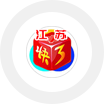
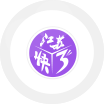
415

Changed region(s): [[0.2596, 0.2596, 0.75, 0.75]]

diff --git a/Application/Fuzhi/View/Common/index.html b/Application/Fuzhi/View/Common/index.html
@@ -635,7 +635,7 @@
                                     <div id="pk10_hot">
                                         <div class="rowbox1">
                                             <div class="imgheadl">
-                                                <a href="/pk10/"><img src="picture/beijinpk.png" alt="北京PK10"/></a>
+                                                <a href="/pk10/"><img src="picture/beijinpk.png?v=20181111" alt="北京PK10"/></a>
                                             </div>
                                             <div class="num_ul" id="">
                                                 <h1>北京PK10 <span class="preDrawIssue"> 179</span> 期</h1>
@@ -707,7 +707,7 @@
                                     <div id="cqSsc_hot" style="margin-top: 26px;">
                                         <div class="rowbox1">
                                             <div class="imgheadl">
-                                                <a href="/cqssc/"><img src="/picture/chognqingssc.png" alt="重庆时时彩"/></a>
+                                                <a href="/cqssc/"><img src="/picture/chognqingssc.png?v=20181111" alt="重庆时时彩"/></a>
                                             </div>
                                             <div class="num_ul">
                                                 <h1>重庆时时彩 <span class="preDrawIssue"> 120</span> 期</h1>
@@ -786,7 +786,7 @@
                                     <div id="pk10">
                                         <div class="rowbox1">
                                             <div class="imgheadl">
-                                                <a href="/pk10+"><img src="/picture/beijinpk.png" alt="北京PK10"/></a>
+                                                <a href="/pk10+"><img src="/picture/beijinpk.png?v=20181111" alt="北京PK10"/></a>
                                             </div>
                                             <div class="num_ul">
                                                 <h1>北京PK10 <span class="preDrawIssue"> 179</span> 期</h1>
@@ -936,7 +936,7 @@
                                     <div id="xyft">
                                         <div class="rowbox1">
                                             <div class="imgheadl">
-                                                <a href="xyft"><img src="picture/jisuft.png" alt="极速飞艇"/></a>
+                                                <a href="xyft"><img src="picture/jisuft.png?v=20181111" alt="极速飞艇"/></a>
                                             </div>
                                             <div class="num_ul">
                                                 <h1>幸运飞艇 <span class="preDrawIssue"> 179</span> 期</h1>
@@ -1011,7 +1011,7 @@
                                     <div id="cqSsc">
                                         <div class="rowbox1">
                                             <div class="imgheadl">
-                                                <a href="/cqssc/"><img src="picture/chognqingssc.png" alt="重庆时时彩"/></a>
+                                                <a href="/cqssc/"><img src="picture/chognqingssc.png?v=20181111" alt="重庆时时彩"/></a>
                                             </div>
                                             <div class="num_ul">
                                                 <h1>重庆时时彩 <span class="preDrawIssue"> 120</span> 期</h1>
@@ -1087,7 +1087,7 @@
                                     <div id="txffc">
                                     <div class="rowbox1">
                                     <div class="imgheadl">
-                                    <a href="/txffc/"><img src="/images/txffc.png" alt="腾讯分分彩" /></a>
+                                    <a href="/txffc/"><img src="/images/txffc.png?v=20181111" alt="腾讯分分彩" /></a>
                                     </div>
                                     <div class="num_ul">
                                     <h1>腾讯分分彩 <span class="preDrawIssue"> 1440</span> 期</h1>
@@ -1239,7 +1239,7 @@
                                     <div id="gd11x5">
                                         <div class="rowbox1">
                                             <div class="imgheadl">
-                                                <a href="/gd11x5/"><img src="picture/gaungdong11x5.png"
+                                                <a href="/gd11x5/"><img src="picture/gaungdong11x5.png?v=20181111"
                                                                        alt="广东11选5"/></a>
                                             </div>
                                             <div class="num_ul">
@@ -1386,7 +1386,7 @@
                                     <div id="kuai3">
                                         <div class="rowbox1">
                                             <div class="imgheadl">
-                                                <a href="/jsk3/"><img src="picture/jsk3.png" alt="江苏快3"/></a>
+                                                <a href="/jsk3/"><img src="picture/jsk3.png?v=20181111" alt="江苏快3"/></a>
                                             </div>
                                             <div class="num_ul">
                                                 <h1>江苏快3 <span class="preDrawIssue"> 82</span> 期</h1>
@@ -1454,7 +1454,7 @@
                                 <div id="bjft">
                                     <div class="rowbox1">
                                         <div class="imgheadl">
-                                                <a href="/bjft/"><img src="picture/beijinpk10.png" alt="江苏快3"/></a>
+                                                <a href="/bjft/"><img src="picture/beijinpk10.png?v=20181111" alt="江苏快3"/></a>
                                             </div>
                                             <div class="num_ul">
                                                 <h1>北京番摊 <span class="preDrawIssue"> 179</span> 期</h1>
@@ -1531,7 +1531,7 @@
                                 <div id="cqft">
                                     <div class="rowbox1">
                                         <div class="imgheadl">
-                                            <a href="/cqft/"><img src="picture/chongqingssc.png" alt="江苏快3"/></a>
+                                            <a href="/cqft/"><img src="picture/chongqingsscft.png?v=20181111" alt=""/></a>
                                         </div>
                                         <div class="num_ul">
                                             <h1>重庆番摊 <span class="preDrawIssue"> 120</span> 期</h1>
@@ -1594,7 +1594,7 @@
                                 <div id="pc28">
                                     <div class="rowbox1">
                                         <div class="imgheadl">
-                                            <a href="/pc28/"><img src="/images/pc28.png" alt="江苏快3"/></a>
+                                            <a href="/pc28/"><img src="/images/pc28.png?v=20181111" alt="江苏快3"/></a>
                                         </div>
                                         <div class="num_ul">
                                             <h1>加拿大28 <span class="preDrawIssue"> </span> </h1>
@@ -1739,16 +1739,16 @@
                                         <!--</li>-->
                                         <li class="pcddxl">
                                             <a  href="javascript:void (0)"><img
-                                                    src="/images/pl3-logo.png" width="52" height="52"/></a>
-                                            <a  href="javascript:void (0)">排列3</a>
+                                                    src="/images/pk10ft.png?v=20181111" width="52" height="52"/></a>
+                                            <a  href="javascript:void (0)">北京番摊</a>
                                         </li>
                                         <li>
-                                            <a  href="/gd11x5/"><img src="/images/gd11x5-logo.png"
+                                            <a  href="/gd11x5/"><img src="/images/gd11x5-logo.png?v=20181111"
                                                                                    width="52" height="52"/></a>
                                             <a  href="/gd11x5/">广东11选5</a>
                                         </li>
                                         <li>
-                                            <a  href="jsk3"><img src="/images/jsk3-logo.png" width="52"
+                                            <a  href="jsk3"><img src="/images/jsk3-logo.png?v=20181111" width="52"
                                                                                 height="52"/></a>
                                             <a  href="jsk3">江苏快三</a>
                                         </li>
@@ -1760,7 +1760,7 @@
                                         <!--</li>-->
 
                                         <li>
-                                            <a  href="/xyft/"><img src="/images/xyft-logo.png" width="52"
+                                            <a  href="/xyft/"><img src="/images/xyft-logo.png?v=20181111" width="52"
                                                                                  height="52"/></a>
                                             <a  href="/xyft/">幸运飞艇</a>
                                         </li>
@@ -1772,23 +1772,23 @@
                                         <!--</li>-->
 
                                         <li>
-                                            <a  href="/cqssc/"><img src="picture/cqssc.png" alt="重庆时时彩"/></a>
+                                            <a  href="/cqssc/"><img src="picture/cqssc.png?v=20181111" alt="重庆时时彩"/></a>
                                             <a  href="/cqssc/">重庆时时彩</a>
                                         </li>
                                         <li >
                                             <a  href="/tcssc/"><img
-                                                    src="/images/tcpk10-logo.png?t=2018" width="52" height="52"></a>
+                                                    src="/images/jsssc-logo.png?v=20181111" width="52" height="52"></a>
                                             <a  href="/tcssc/">极速时时彩</a>
                                         </li>
                                         <li >
-                                            <a  href="/tcpk10/"><img src="/images/tcssc-logo.png?t=2018" alt="极速pk10" width="52" height="52"/></a>
+                                            <a  href="/tcpk10/"><img src="/images/jspk10.png?v=20181111" alt="极速pk10" width="52" height="52"/></a>
                                             <a  href="/tcpk10/">极速pk10</a>
                                         </li>
 
                                         <li class="last_li pcddxl">
                                             <a  href="javascript:void (0)"><img
-                                                    src="/images/kl8-logo.png" width="52" height="52"></a>
-                                            <a  href="javascript:void (0)">快乐8</a>
+                                                    src="/images/txffc-logo.png?v=20181111" width="52" height="52"></a>
+                                            <a  href="javascript:void (0)">腾讯分分彩</a>
                                         </li>
 
                                     </ul>
@@ -2395,7 +2395,7 @@
                                         <input type="hidden" id="ofNoLoad" value="noLoad"/>
                                         <input type="hidden" id="ifindex" value="index"/>
                                         <div class="imgheadl">
-                                            <a href="/pk10/"><img src="picture/beijinpk.png" alt="北京PK10"/></a>
+                                            <a href="/pk10/"><img src="picture/beijinpk.png?v=20181111" alt="北京PK10"/></a>
                                         </div>
                                         <div class="inforr">
                                             <h1>北京PK10第<span style="display: inline-block;" class="preDrawIssue"></span>期开奖
@@ -2472,7 +2472,7 @@
                                 <div class="cztypelt">
                                     <div class="rowbox1">
                                         <div class="imgheadl">
-                                            <a href="cqssc"><img src="picture/chognqingssc.png" alt="重庆时时彩"/></a>
+                                            <a href="cqssc"><img src="picture/chognqingssc.png?v=20181111" alt="重庆时时彩"/></a>
                                         </div>
                                         <div class="inforr">
                                             <span class="nextIssue displaynone"></span>
@@ -2619,7 +2619,7 @@
                                 <div class="cztypelt">
                                     <div class="rowbox1">
                                         <div class="imgheadl">
-                                            <a href="/gd11x5/"><img src="picture/gaungdong11x5.png" alt="广东11选5"/></a>
+                                            <a href="/gd11x5/"><img src="picture/gaungdong11x5.png?v=20181111" alt="广东11选5"/></a>
                                         </div>
                                         <div class="inforr">
                                             <span class="nextIssue displaynone"></span>

diff --git a/m/style/css/style.css b/m/style/css/style.css
@@ -118,7 +118,7 @@ body{font-size:15px;line-height:1.5;-webkit-text-size-adjust:none;font-family:"M
 /*北京pk10*/
 .ui-logo-pk10 {background:url("../images/pk10-logo.png");}
 /*北京pk10*/
-.ui-logo-xyft {background:url("../images/xyft-logo.png");}
+.ui-logo-xyft {background:url("../images/xyft-logo.png?v=20181111");}
 /*重庆时时彩*/
 .ui-logo-cqssc {background:url("../images/cqssc-logo.png");}
 /*广东快乐十分*/
@@ -130,9 +130,9 @@ body{font-size:15px;line-height:1.5;-webkit-text-size-adjust:none;font-family:"M
 /*天津时时彩*/
 .ui-logo-tjssc {background:url("../images/tjssc-logo.png");}
 /*广东11选5*/
-.ui-logo-gd11x5 {background:url("../images/gd11x5-logo.png");}
+.ui-logo-gd11x5 {background:url("../images/gd11x5-logo.png?v=20181111");}
 /*江苏快三*/
-.ui-logo-jsk3 {background:url("../images/jsk3-logo.png");}
+.ui-logo-jsk3 {background:url("../images/jsk3-logo.png?v=20181111");}
 
 .ui-logo-pc28 {background:url("../images/pc28-logo.png");}
 

diff --git a/js/lot/sfssc/award.js b/js/lot/sfssc/award.js
@@ -88,6 +88,12 @@ $(function () {
     var cpNextAwardTimeInterval = -1;
     function loadAwardTimes() {
         $.get('sfssc/getCqsscAwardTimes.do', { t: Math.random() }, function (data) {
+            var nums = data.current.awardNumbers.split(',');
+            var str = "";
+            for (var i = 0; i < nums.length; i++) {
+                str = str + "<span class='no" + nums[i] + "'>" + nums[i] + "</span>";
+            }
+            $(".lot-nums").html(str);
             //请求到数据后需要做的事情
             cpCurrAwardData = data;
 
@@ -137,6 +143,7 @@ $(function () {
 
 function updateHistoryRecord() {
     $.get('sfssc/getNewestRecord.do', { t: Math.random() }, function (data) {
+        $(".warnTime #period").html("第" + (parseInt(data.current.periodNumber1)+1).toString().substr(6) + "期");
         var numbers = data.numbers.split(',');
         var tr1 = $("#history tr").eq(1);
         var clsName = "odd";

diff --git a/style/m/style/css/style.css b/style/m/style/css/style.css
@@ -77,7 +77,7 @@ body{font-size:15px;line-height:1.5;-webkit-text-size-adjust:none;font-family:"M
 /*北京pk10*/
 .ui-logo-pk10 {background:url("../images/pk10-logo.png");}
 /*北京pk10*/
-.ui-logo-xyft {background:url("../images/xyft-logo.png");}
+.ui-logo-xyft {background:url("../images/xyft-logo.png?v=20181111");}
 /*重庆时时彩*/
 .ui-logo-cqssc {background:url("../images/cqssc-logo.png");}
 /*广东快乐十分*/
@@ -89,9 +89,9 @@ body{font-size:15px;line-height:1.5;-webkit-text-size-adjust:none;font-family:"M
 /*天津时时彩*/
 .ui-logo-tjssc {background:url("../images/tjssc-logo.png");}
 /*广东11选5*/
-.ui-logo-gd11x5 {background:url("../images/gd11x5-logo.png");}
+.ui-logo-gd11x5 {background:url("../images/gd11x5-logo.png?v=20181111");}
 /*江苏快三*/
-.ui-logo-jsk3 {background:url("../images/jsk3-logo.png");}
+.ui-logo-jsk3 {background:url("../images/jsk3-logo.png?v=20181111");}
 
 
 

diff --git a/Application/Fuzhi/View/Common/index22.html b/Application/Fuzhi/View/Common/index22.html
@@ -521,7 +521,7 @@ $(function(){
               <a href="/jiqiao/xyft/" target="_blank" class="gey_link fr">更多&gt;&gt;</a></div>
             <div class="news_bd">
               <dl>
-                <dt><img src="/images/xyft-logo.png" width="82" height="82"></dt>
+                <dt><img src="/images/xyft-logo.png?v=20181111" width="82" height="82"></dt>
                 <dd><a href="jiqiao/{$pktop5['lottory']}/{$pktop5['id']}.html" target="_blank">{$pktop5.title}</a></dd>
                 <dd>{$pktop5.description}</dd>              </dl>
             </div>
